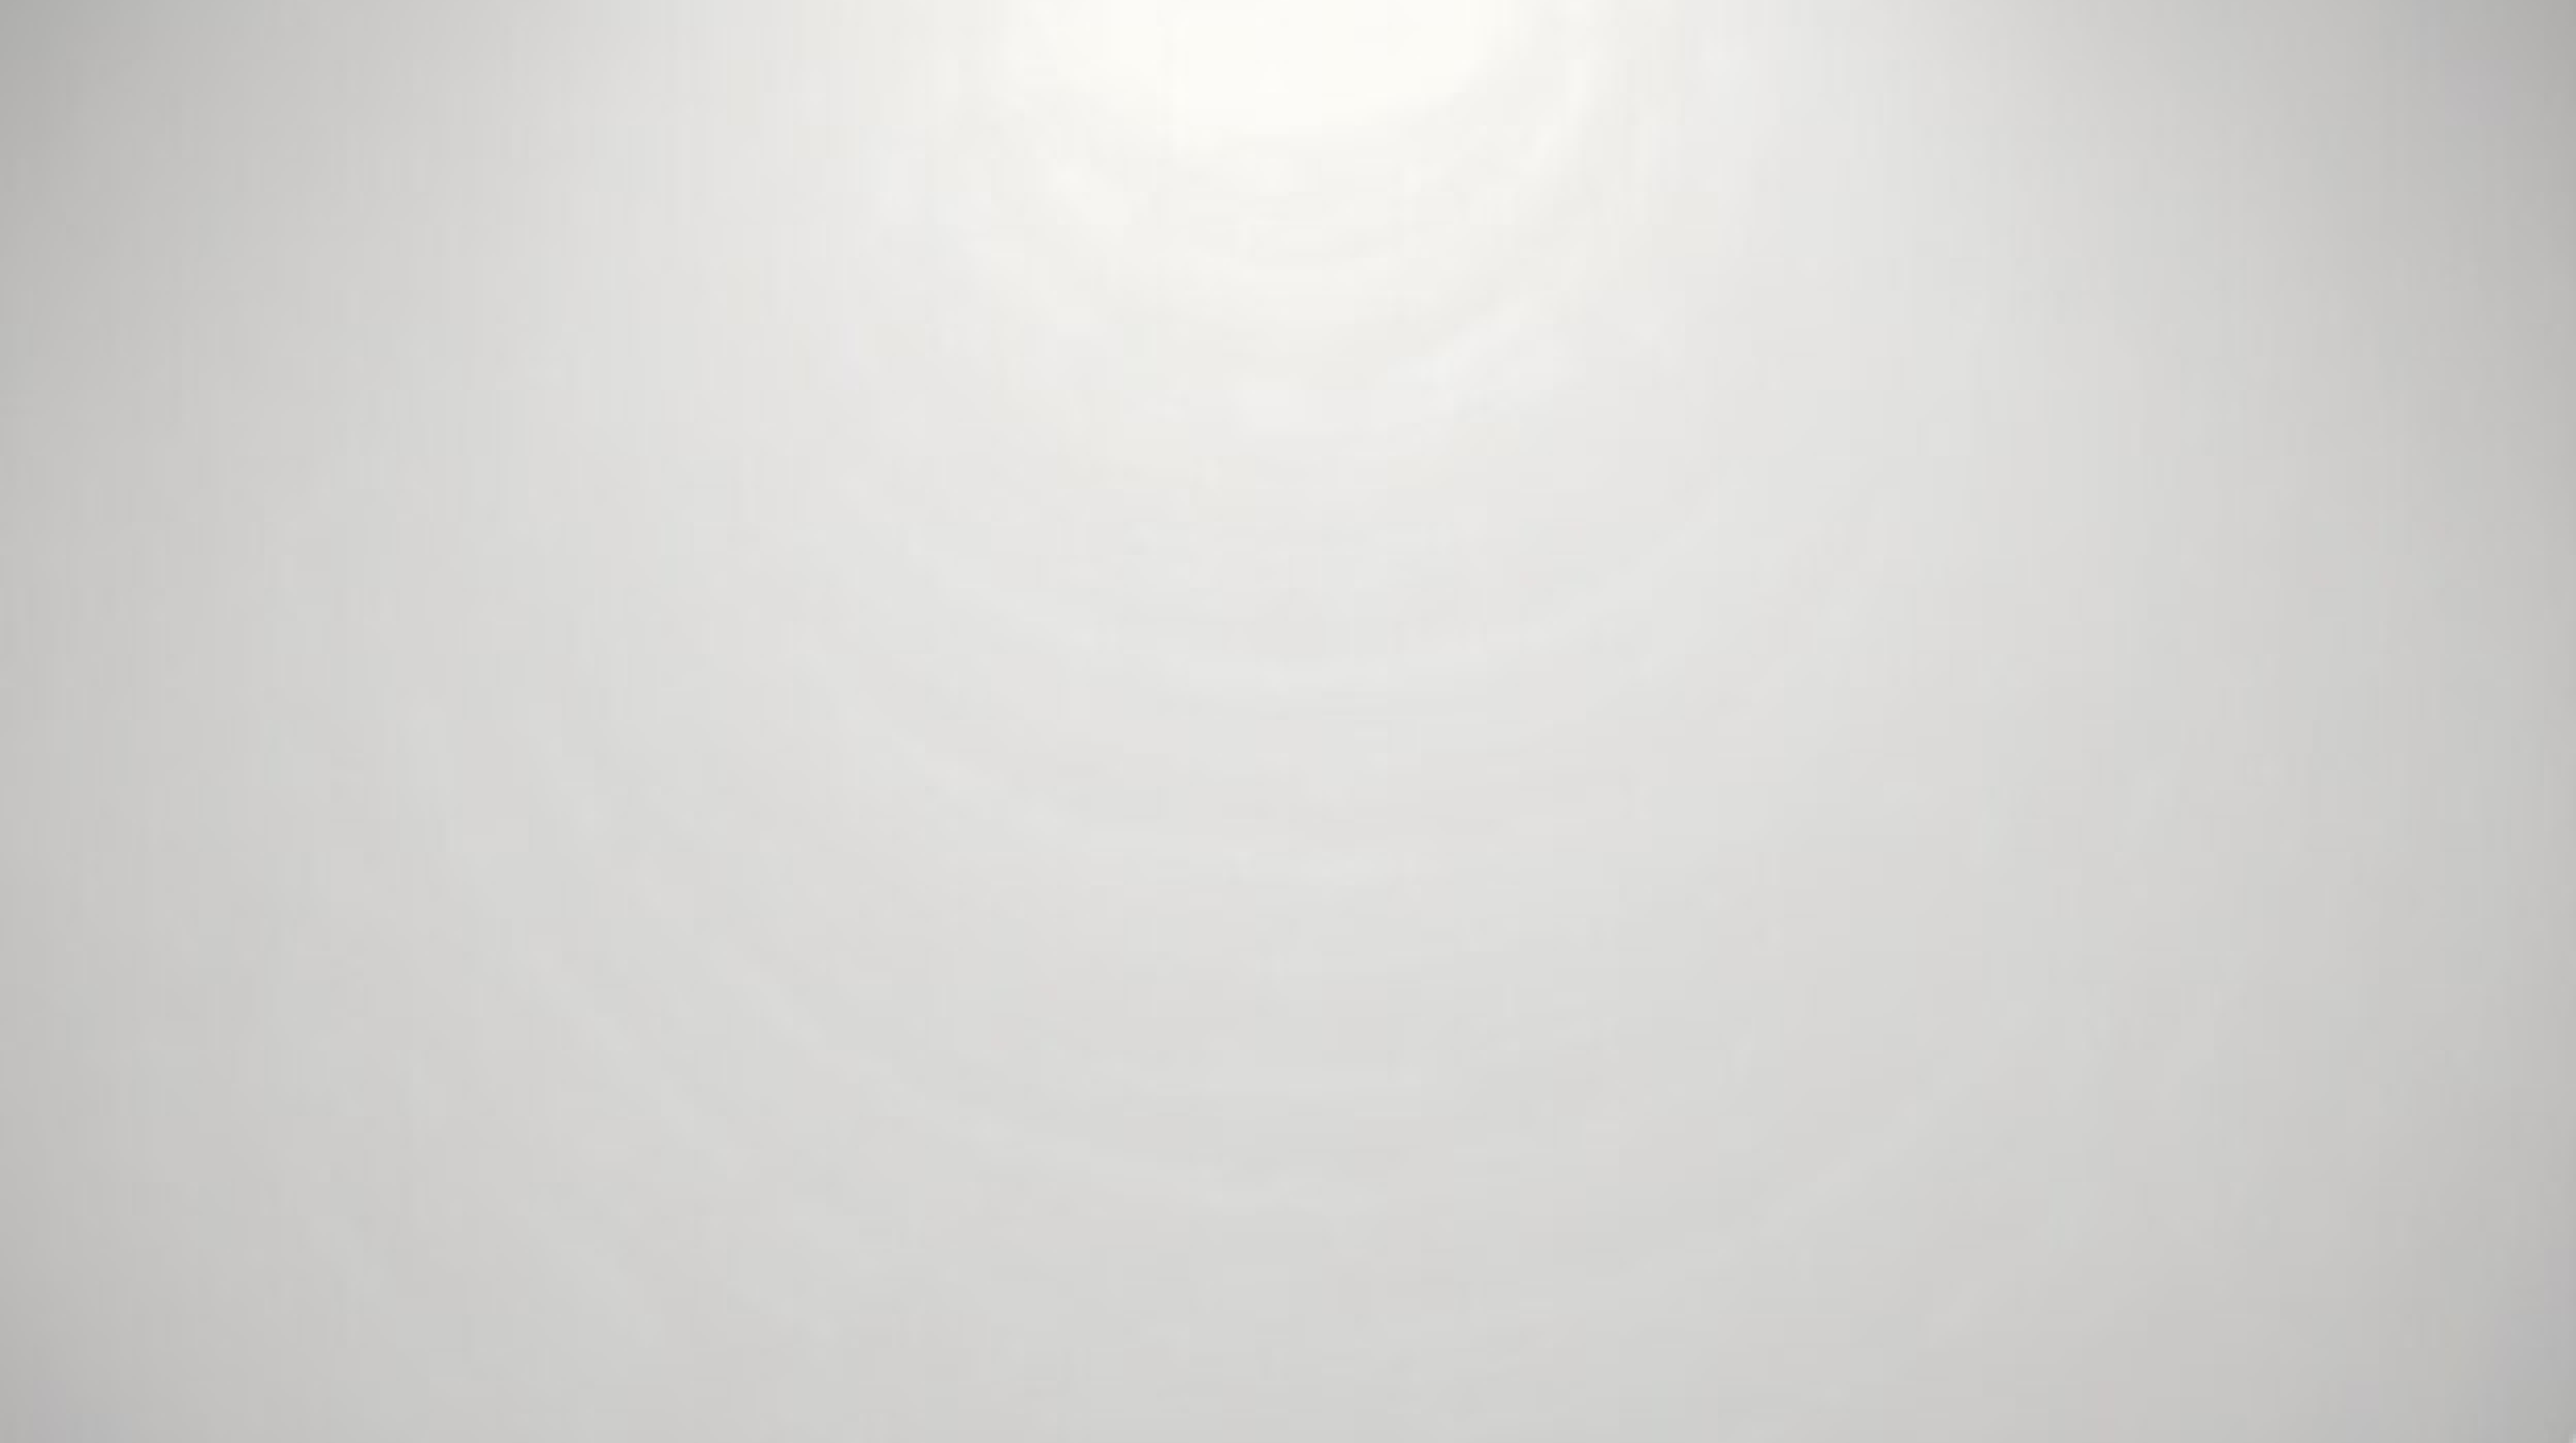
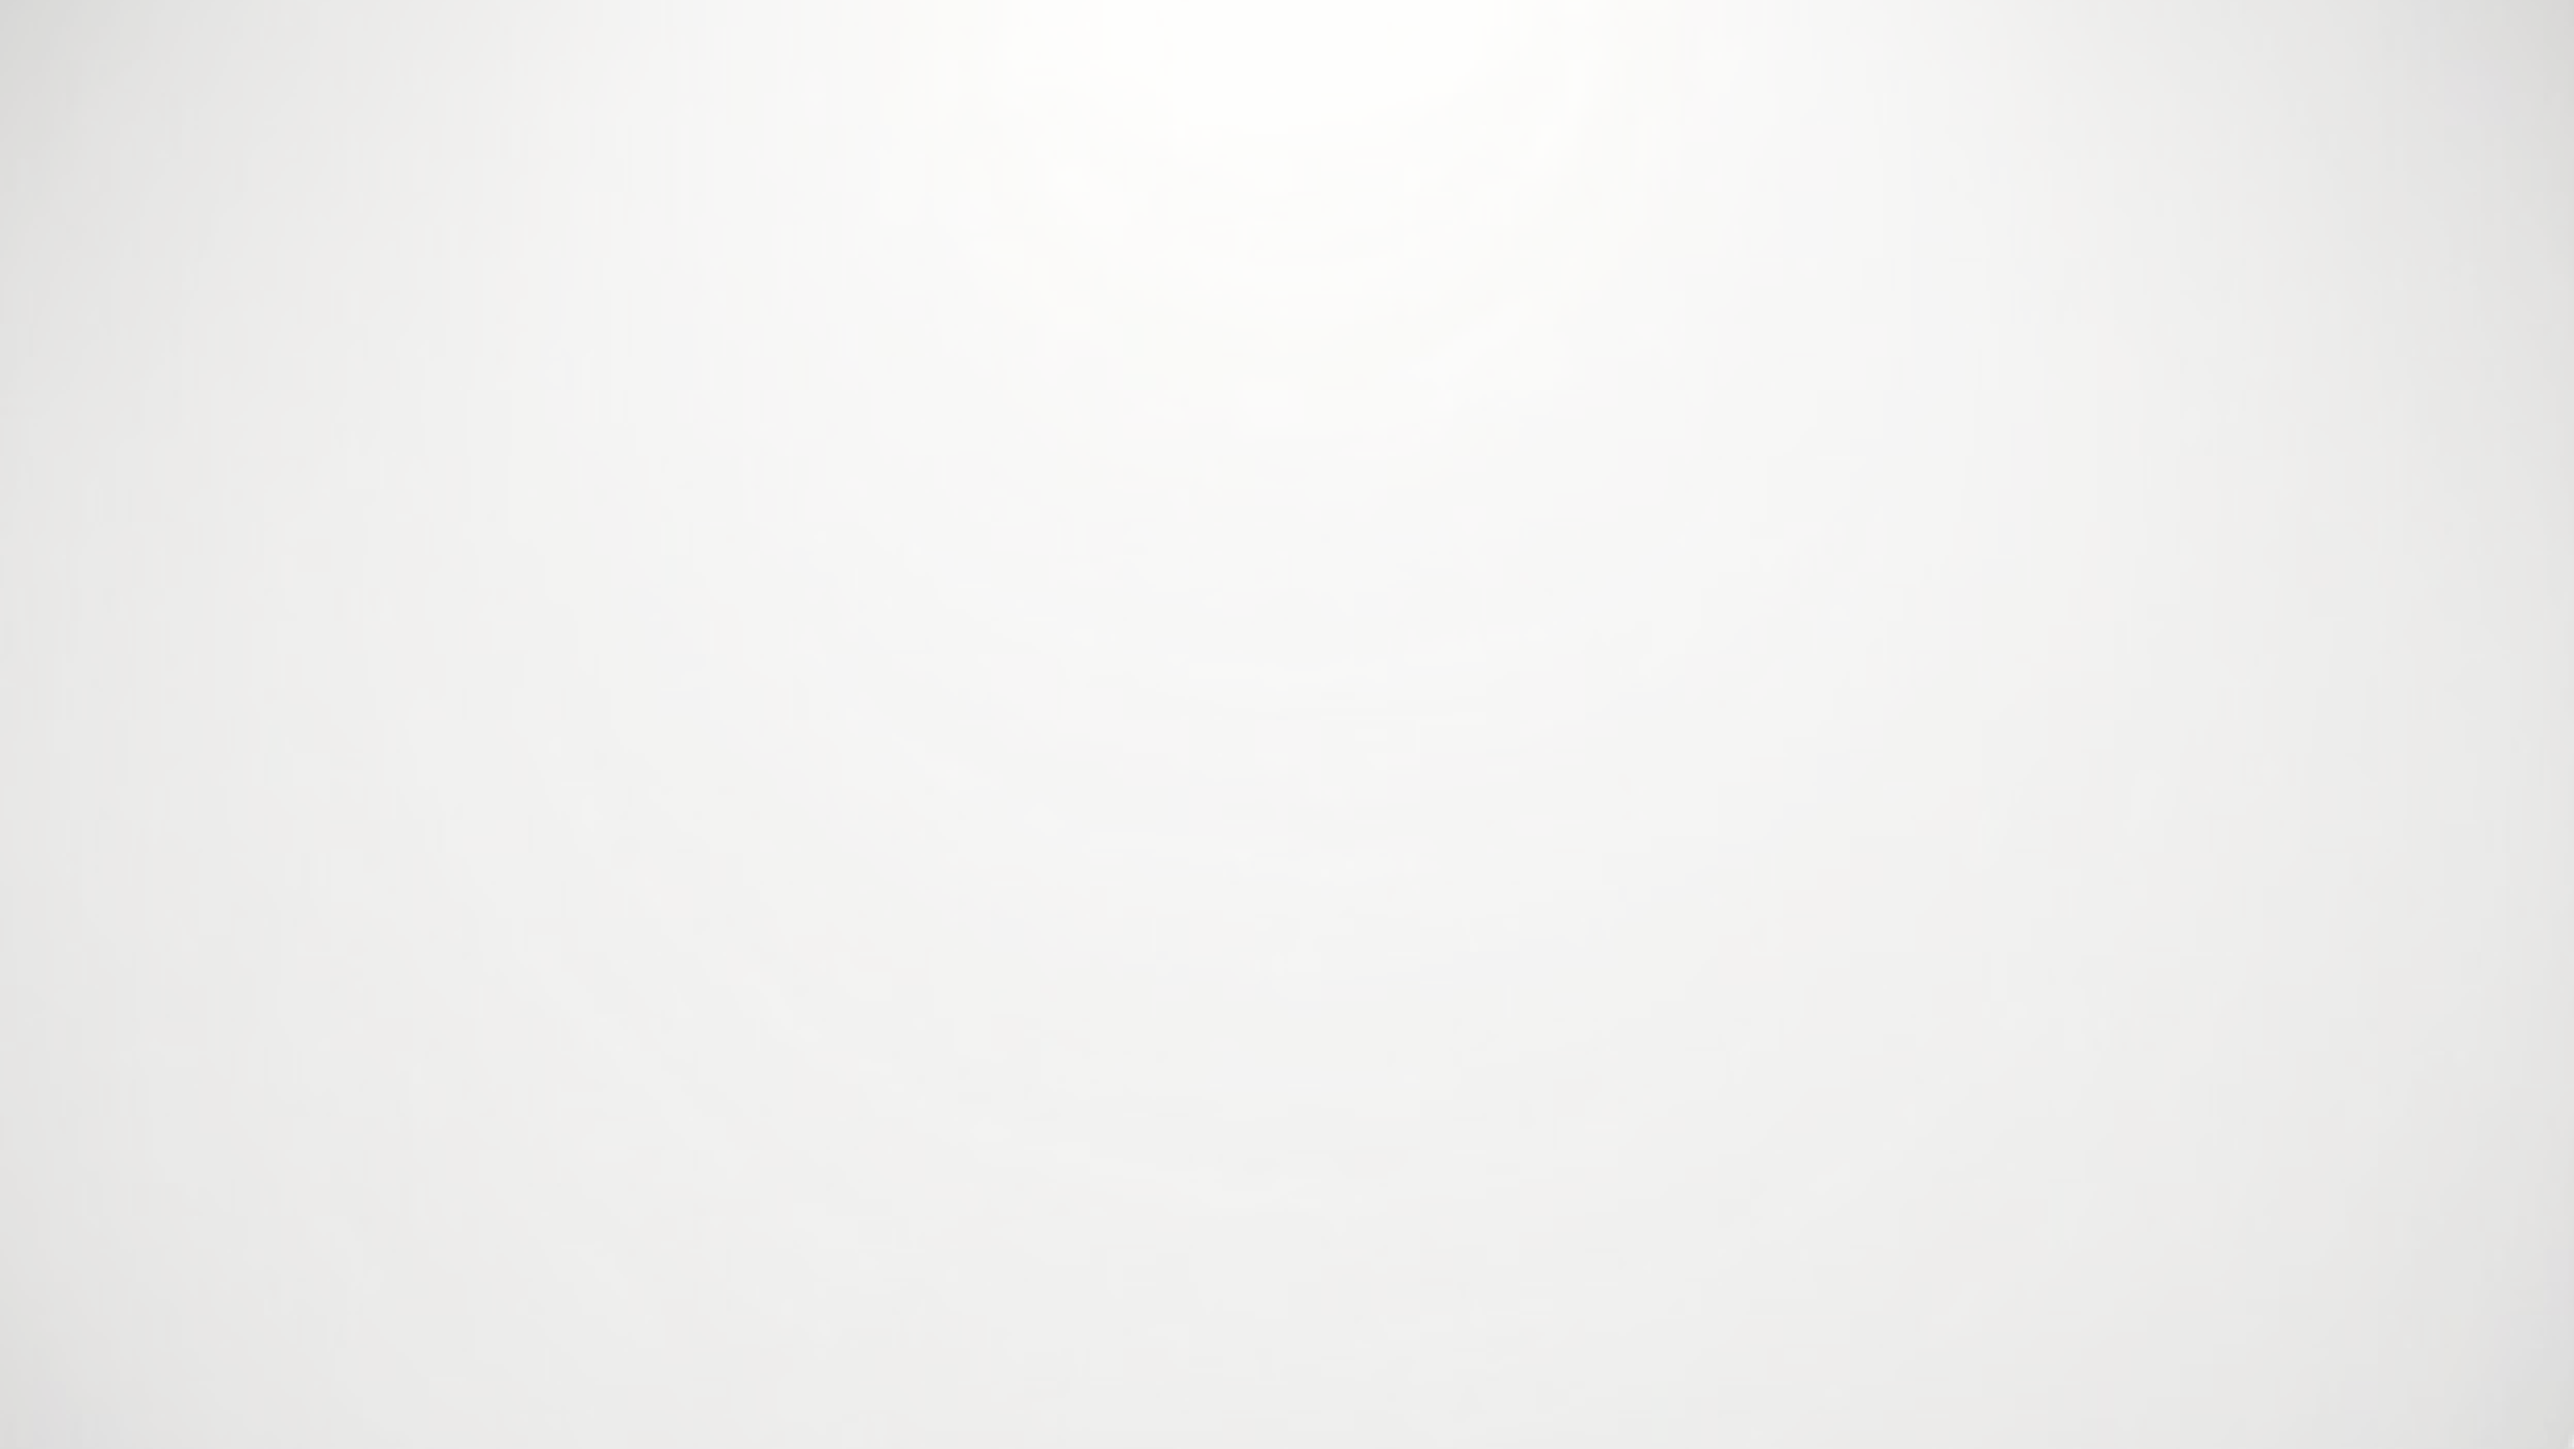
Bg replace & Timer solve

diff --git a/src/components/maindashboard/BehavioralVideoRecording.jsx b/src/components/maindashboard/BehavioralVideoRecording.jsx
@@ -384,29 +384,33 @@ const BehavioralVideoRecording = ({ onClose, interviewType, category }) => {
     }
   };
 
-  // Timer Effect
-  useEffect(() => {
-    let interval;
-    let elapsedSeconds = 0; // Variable to track elapsed time
+// Timer Effect
+useEffect(() => {
+  let interval;
+  let elapsedSeconds = 0; // Variable to track elapsed time
 
-    if (isRecording && !isPaused) {
-      interval = setInterval(() => {
-        elapsedSeconds += 1; // Increment elapsed time by 1 second
+  if (isRecording && !isPaused) {
+    interval = setInterval(() => {
+      elapsedSeconds += 1; // Increment elapsed time by 1 second
 
-        setTimer({ minutes: 0, seconds: elapsedSeconds });
+      // Calculate minutes and seconds
+      const minutes = Math.floor(elapsedSeconds / 60);
+      const seconds = elapsedSeconds % 60;
 
-        if (elapsedSeconds === 120) {
-          // Check if elapsed time is exactly 5 seconds
-          stopRecording();
-          clearInterval(interval); // Stop the timer after 5 seconds
-        }
-      }, 1000);
-    } else {
-      clearInterval(interval);
-    }
+      setTimer({ minutes, seconds });
 
-    return () => clearInterval(interval);
-  }, [isRecording, isPaused]);
+      if (elapsedSeconds === 120) {
+        // Check if elapsed time is exactly 120 seconds (2 minutes)
+        stopRecording();
+        clearInterval(interval); // Stop the timer after 2 minutes
+      }
+    }, 1000);
+  } else {
+    clearInterval(interval);
+  }
+
+  return () => clearInterval(interval);
+}, [isRecording, isPaused]);
 
   //Make a post request to the backend to get the questions
   const handleIntroFinish = async () => {

diff --git a/src/components/maindashboard/MockVideoRecording.jsx b/src/components/maindashboard/MockVideoRecording.jsx
@@ -390,30 +390,33 @@ const VideoRecording = ({
       setQuestionError(true);
     }
   };
+// Timer Effect
+useEffect(() => {
+  let interval;
+  let elapsedSeconds = 0; // Variable to track elapsed time
 
-  // Timer Effect
-  useEffect(() => {
-    let interval;
-    let elapsedSeconds = 0; // Variable to track elapsed time
+  if (isRecording && !isPaused) {
+    interval = setInterval(() => {
+      elapsedSeconds += 1; // Increment elapsed time by 1 second
 
-    if (isRecording && !isPaused) {
-      interval = setInterval(() => {
-        elapsedSeconds += 1; // Increment elapsed time by 1 second
+      // Calculate minutes and seconds
+      const minutes = Math.floor(elapsedSeconds / 60);
+      const seconds = elapsedSeconds % 60;
 
-        setTimer({ minutes: 0, seconds: elapsedSeconds });
+      setTimer({ minutes, seconds });
 
-        if (elapsedSeconds === 120) {
-          // Check if elapsed time is exactly 5 seconds
-          stopRecording();
-          clearInterval(interval); // Stop the timer after 5 seconds
-        }
-      }, 1000);
-    } else {
-      clearInterval(interval);
-    }
+      if (elapsedSeconds === 120) {
+        // Check if elapsed time is exactly 120 seconds (2 minutes)
+        stopRecording();
+        clearInterval(interval); // Stop the timer after 2 minutes
+      }
+    }, 1000);
+  } else {
+    clearInterval(interval);
+  }
 
-    return () => clearInterval(interval);
-  }, [isRecording, isPaused]);
+  return () => clearInterval(interval);
+}, [isRecording, isPaused]);
 
   //Make a post request to the backend to get the questions
   const handleIntroFinish = async () => {

diff --git a/src/components/maindashboard/BasicVideoRecording.jsx b/src/components/maindashboard/BasicVideoRecording.jsx
@@ -392,12 +392,16 @@ const BasicVideoRecording = ({ onClose, interviewType, category }) => {
       interval = setInterval(() => {
         elapsedSeconds += 1; // Increment elapsed time by 1 second
 
-        setTimer({ minutes: 0, seconds: elapsedSeconds });
+        // Calculate minutes and seconds
+        const minutes = Math.floor(elapsedSeconds / 60);
+        const seconds = elapsedSeconds % 60;
+
+        setTimer({ minutes, seconds });
 
         if (elapsedSeconds === 120) {
-          // Check if elapsed time is exactly 5 seconds
+          // Check if elapsed time is exactly 120 seconds (2 minutes)
           stopRecording();
-          clearInterval(interval); // Stop the timer after 5 seconds
+          clearInterval(interval); // Stop the timer after 2 minutes
         }
       }, 1000);
     } else {
